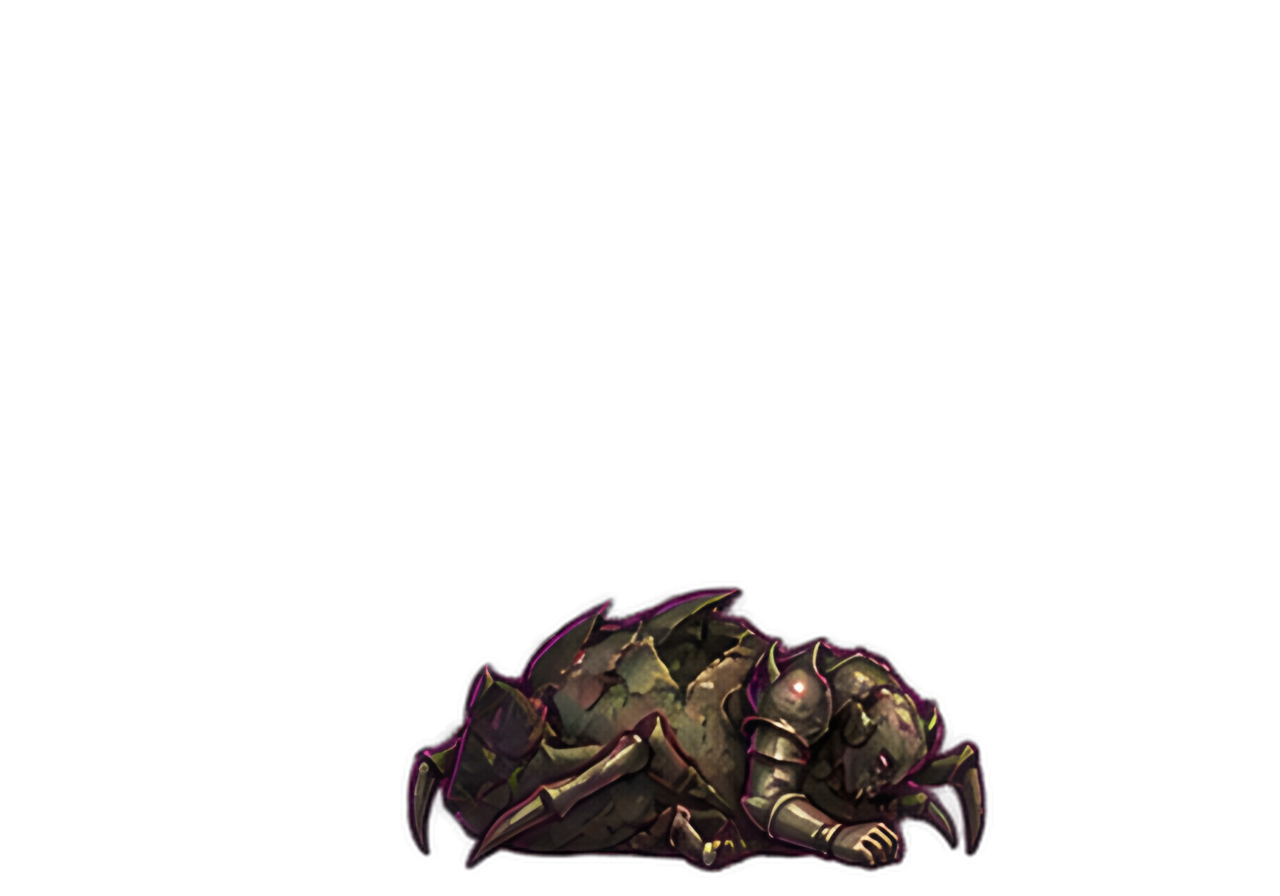
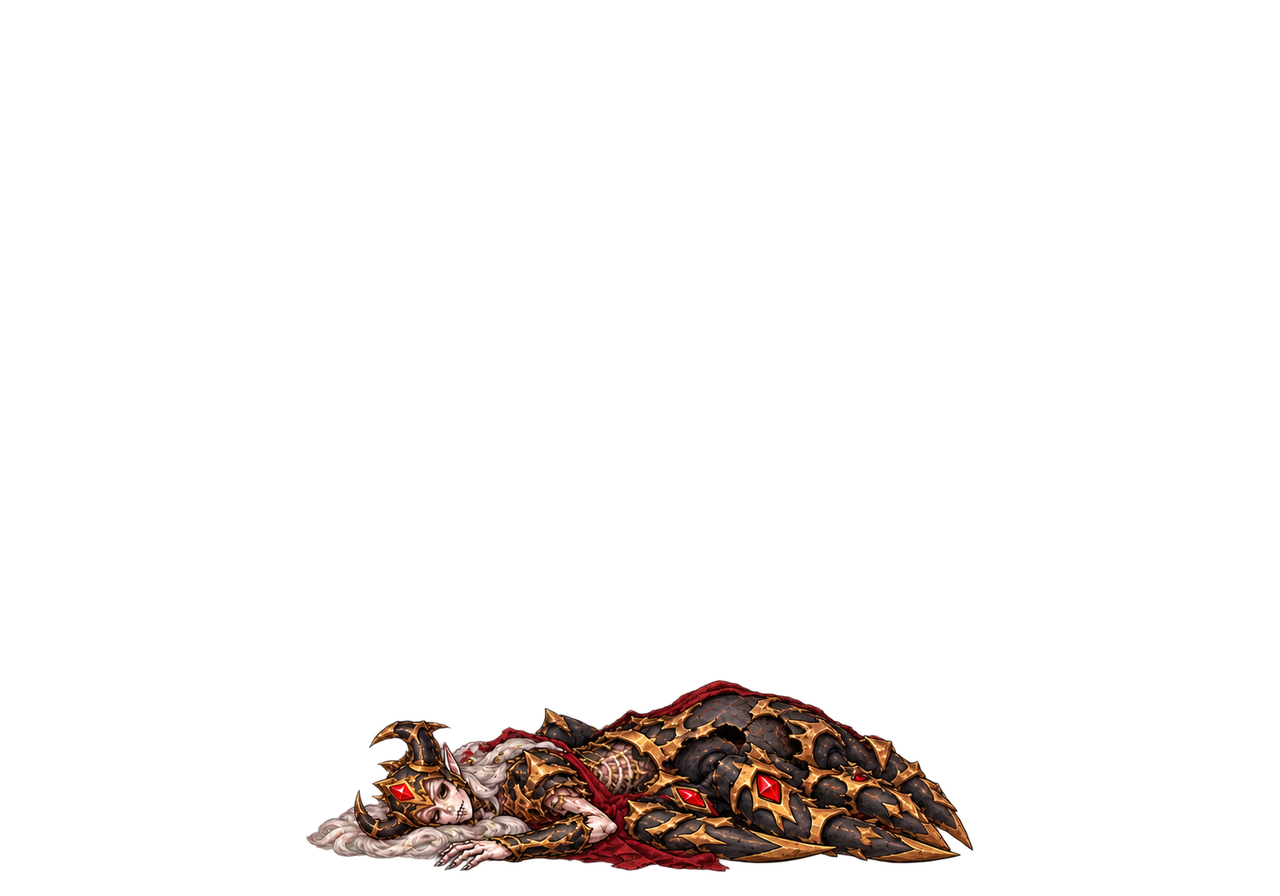
art: apply redesigned spider queen battle animation

Changed region(s): [[0.25, 0.6562, 0.7812, 1.0]]

diff --git a/docs/spider_queen_runtime_2026_10_20.md b/docs/spider_queen_runtime_2026_10_20.md
@@ -1,0 +1,20 @@
+# 거미 여왕 새 원화 애니메이션 적용 — 2026-10-20
+
+사용자의 “일단게임에 적용해” 요청으로 검토용 새 원화의 최종 24장을 전투 런타임에 반영한다. 기준 main은 `4ae7ec2`이다.
+
+- `assets/battle/frames/spider-knight`: 공격 10장, 피격 6장, 사망 8장. 투명 RGBA 1280×896, 대기 몸체 640px, 바닥 872px, 기존 초대형 2배 규격 유지.
+- `data/battle_visual_metrics.json`: 이 유닛의 공격·사망 프레임 시간만 갱신. 타격은 공격 7번, 피격 간격은 0.1초. 대기/복귀는 새 공격 1번 그림을 사용한다.
+- `scripts/unit_art_pipeline/profiles/spider_queen.json`: 승인된 최종 프레임을 보존하는 입력으로 변경. 기존 원화 재분할·추가 업스케일 없이 재패킹 가능하며, 재빌드한 24장 SHA-256이 승인본과 모두 일치한다.
[1 lines of base64/hex data omitted]
+
+실제 게임의 `BattleVisuals.play_strike`와 `PermanentDeath.play`를 사용해 타격·피격·사망 및 일시정지/재개를 검사했다. 별도 원화 뷰어만 실행한 결과가 아니다.
+
+검증 결과:
+
+- Godot 4.7.2 headless editor import 종료 코드 0; 스크립트/리소스/셰이더 로딩 오류 없음. 이 제한된 PC 세션의 portable editor 설정·사용자 폴더 쓰기 및 인증서 저장소 접근 오류는 별도로 존재한다.
+- 실제 전투 headless 확인: 11 통과, 0 실패. 런타임 PNG 24장 해시와 엔진 텍스처, 타이밍, 프레임 복귀 및 전투 스탯/RNG 보존 확인.
+- Windows ANGLE 실제 전투 렌더: 17 통과, 0 실패. 공격 10/피격 6/사망 8 프레임 관찰, 대기·타격·피격·사망 4/5/8 화면 6장 저장. 캡처의 GPU 읽기·PNG 저장이 실시간 피격 관찰을 건너뛴 첫 시도는 증거에 보존하고, `--fixed-fps 60`의 결정적 시간으로 다시 검증했다. 실시간 headless 검사도 별도로 통과했다.
+- 기존 `test_battle_motion_parity.gd`: 31 통과, 0 실패. 1,132개 게임 모션 텍스처 로딩과 기존 전투 모션 경로 유지.
+- 기존 파일은 작업 아카이브에 백업했다. 원본·미승인 후보·개인 저장 파일·캐시·실행기 설정은 이 변경에 포함하지 않는다.
+
+전투 프레임과 타이밍의 적용 기록이다. 카드 원화의 추가 변경이나 플레이어의 최종 실기 승인을 뜻하지 않는다. GitHub CI, main 병합 및 활성 PC 수신은 실제 완료한 시점의 PR/작업 결과로 별도 확인한다.
